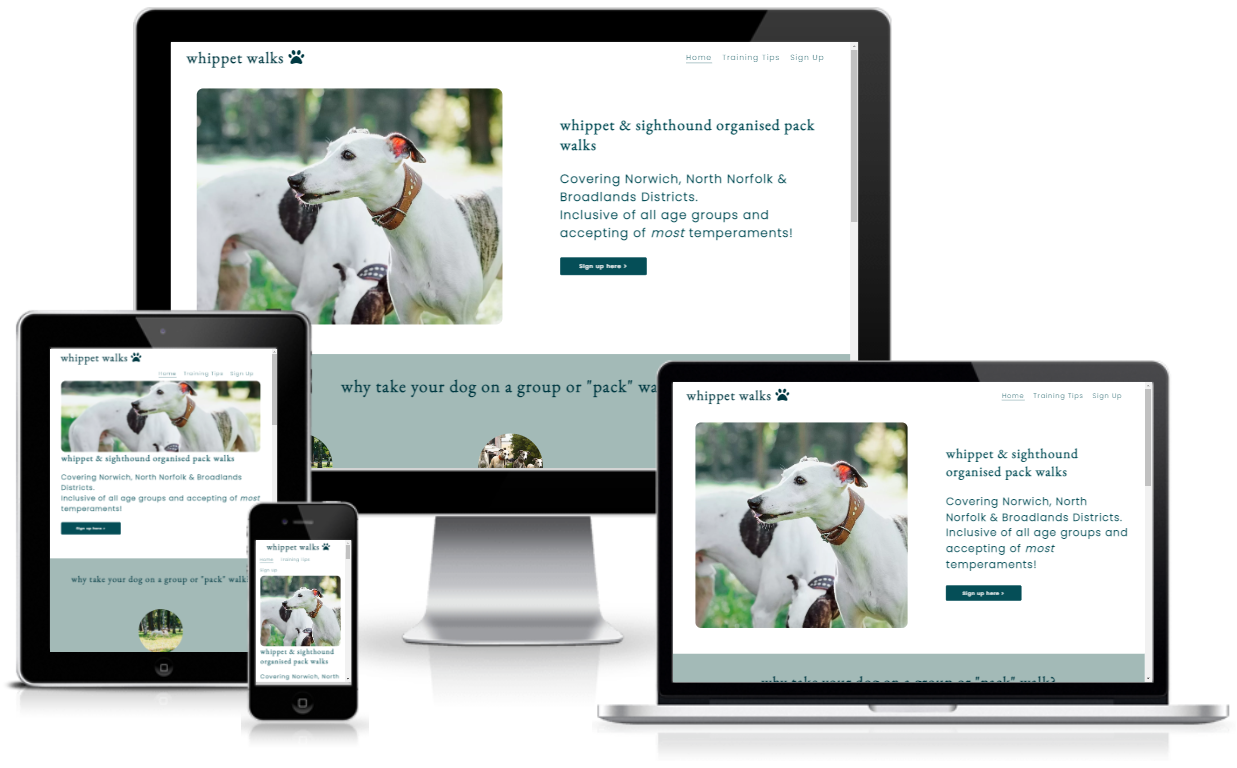
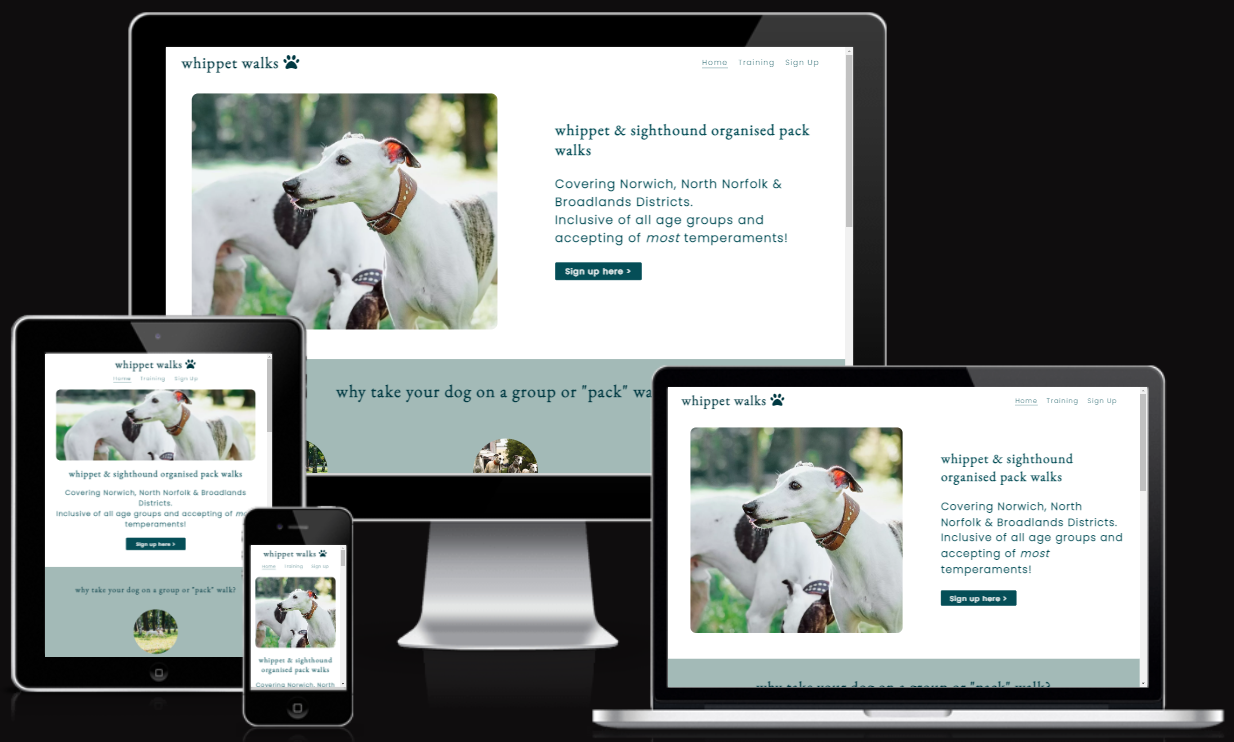
Replace amiresponsive? image in README.  Removed quoted out code.  Re-validated HTML and CSS, ran Lighthouse to check accessibility score was still 100%

diff --git a/assets/css/style.css b/assets/css/style.css
@@ -265,7 +265,6 @@ hr {
     height: 550px;
     float: left;
     text-align: center;
-    /*font-size: 1.1em;*/
     padding: 24px;
     background-color: #fff;
     border: 12px solid #f6f6f6;
@@ -285,7 +284,6 @@ hr {
 
 #events ul {
     padding: 12px 24px;
-    /*font-size: 1.1em;*/
     line-height: 26px;
 }
 
@@ -577,13 +575,13 @@ article p {
         clear: both;
         float: none;
         line-height: 48px;
-        /*margin-left: 24px;*/
         margin-left: auto;
         margin-right: auto;
         left: 0;
         right: 0;
         text-align: center;
     }
+
     #menu ul li {
         float: none;
         margin: 0 auto;
@@ -624,7 +622,7 @@ article p {
     #welcome,
     #events-title {
         font-size: 150%;
-        margin: 12px;
+        margin: 12px 12px 24px 12px;
     }
 
     #tips-main {
@@ -676,7 +674,6 @@ article p {
     }
 
     #menu ul {
-        /*margin-left: 5%;*/
         letter-spacing: 1px;
         font-size: 50%;
     }
